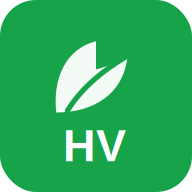
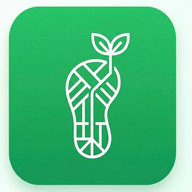
Updates

diff --git a/sw.js b/sw.js
@@ -1,1 +1,1 @@
-if(!self.define){let e,i={};const s=(s,n)=>(s=new URL(s+".js",n).href,i[s]||new Promise(i=>{if("document"in self){const e=document.createElement("script");e.src=s,e.onload=i,document.head.appendChild(e)}else e=s,importScripts(s),i()}).then(()=>{let e=i[s];if(!e)throw new Error(`Module ${s} didn’t register its module`);return e}));self.define=(n,r)=>{const t=e||("document"in self?document.currentScript.src:"")||location.href;if(i[t])return;let o={};const l=e=>s(e,t),c={module:{uri:t},exports:o,require:l};i[t]=Promise.all(n.map(e=>c[e]||l(e))).then(e=>(r(...e),o))}}define(["./workbox-9c191d2f"],function(e){"use strict";self.skipWaiting(),e.clientsClaim(),e.precacheAndRoute([{url:"registerSW.js",revision:"e1f654e23055bd29141f1f9910903a6a"},{url:"index.html",revision:"a14ee77b4cb107754e77d3d60ba8618c"},{url:"assets/index-CJGiUh2q.css",revision:null},{url:"assets/index-B8h7U28q.js",revision:null},{url:"favicon.svg",revision:"7e840862161341271697daa99a40d76b"},{url:"pwa-192.png",revision:"e6149f974c123047019f623a74ca7957"},{url:"manifest.webmanifest",revision:"7b62ac5af28aec70788aab435a4c379e"}],{}),e.cleanupOutdatedCaches(),e.registerRoute(new e.NavigationRoute(e.createHandlerBoundToURL("index.html")))});
+if(!self.define){let e,i={};const s=(s,n)=>(s=new URL(s+".js",n).href,i[s]||new Promise(i=>{if("document"in self){const e=document.createElement("script");e.src=s,e.onload=i,document.head.appendChild(e)}else e=s,importScripts(s),i()}).then(()=>{let e=i[s];if(!e)throw new Error(`Module ${s} didn’t register its module`);return e}));self.define=(n,r)=>{const t=e||("document"in self?document.currentScript.src:"")||location.href;if(i[t])return;let o={};const l=e=>s(e,t),a={module:{uri:t},exports:o,require:l};i[t]=Promise.all(n.map(e=>a[e]||l(e))).then(e=>(r(...e),o))}}define(["./workbox-9c191d2f"],function(e){"use strict";self.skipWaiting(),e.clientsClaim(),e.precacheAndRoute([{url:"registerSW.js",revision:"e1f654e23055bd29141f1f9910903a6a"},{url:"index.html",revision:"a14ee77b4cb107754e77d3d60ba8618c"},{url:"assets/index-CJGiUh2q.css",revision:null},{url:"assets/index-B8h7U28q.js",revision:null},{url:"favicon.svg",revision:"7e840862161341271697daa99a40d76b"},{url:"pwa-192.png",revision:"58c30c8da02a7eb092ec9b7110197400"},{url:"pwa-512.png",revision:"a093e2b0317f1a59d34ed98cee5097e7"},{url:"manifest.webmanifest",revision:"7b62ac5af28aec70788aab435a4c379e"}],{}),e.cleanupOutdatedCaches(),e.registerRoute(new e.NavigationRoute(e.createHandlerBoundToURL("index.html")))});